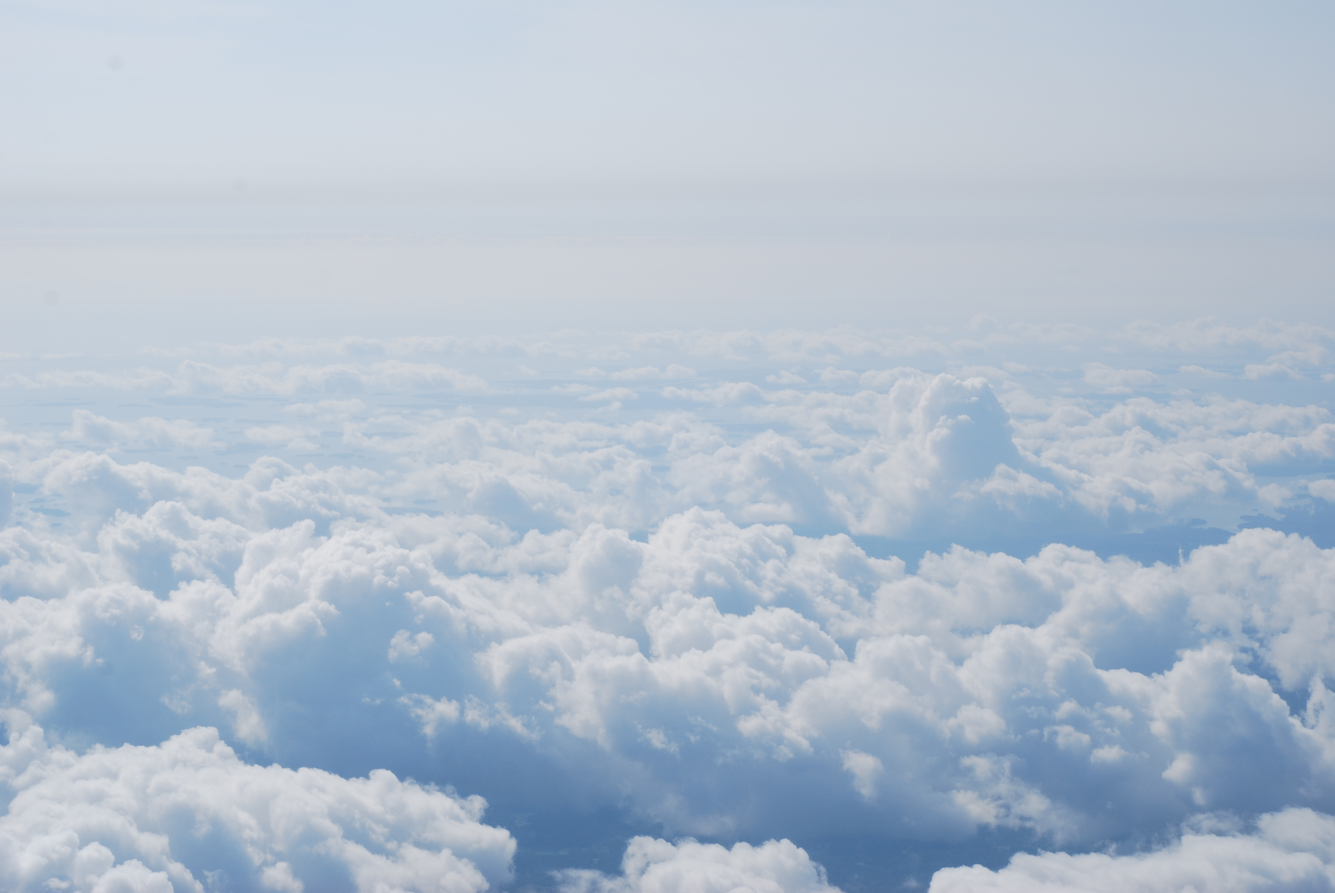
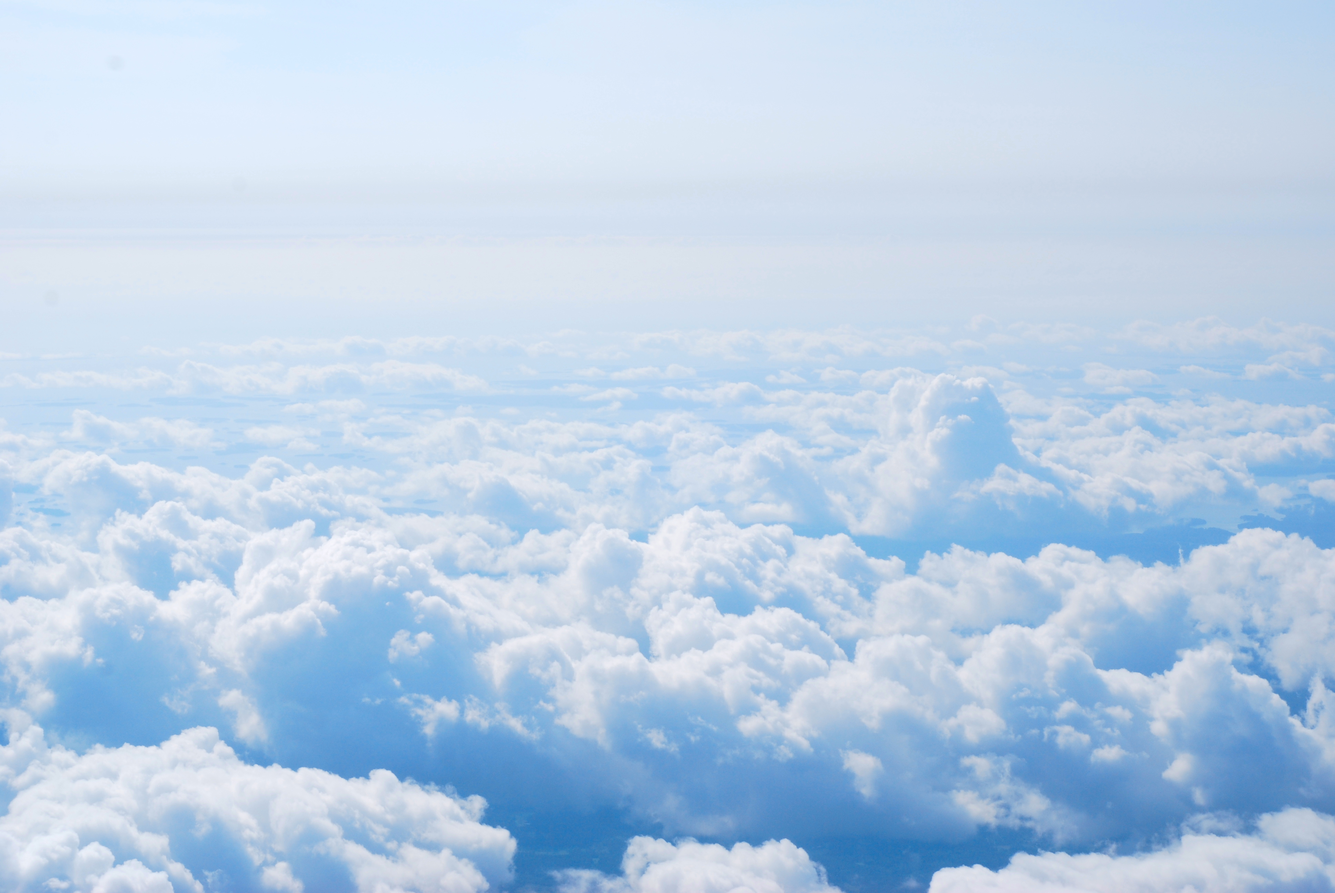
background changes

diff --git a/src/Work.js b/src/Work.js
@@ -23,56 +23,58 @@ class Portfolio extends Component {
 					<Container>
 			          <Row debug>
 			            <Col className="container" xs={6} md={3.6}>
-			            <center>
-			              <img className="image" src={require("./images/DH2642/DP.png")} alt="Image" width="200px" height="200px" />
-			                <div class="middle">
-			                	<Link to="/DH2642react">
-							    <div class="text">DH2642</div>
-							    </Link>
-							 </div>
-			            </center>
+				            <center>
+					            <Link to="/DH2642react">
+					              	<img className="image" src={require("./images/DH2642/DP.png")} alt="Image" width="200px" height="200px" />
+					                <div class="middle">
+									    <div class="text">DH2642</div>
+									</div>
+								</Link>
+				            </center>
 			            </Col>   
 
 			            <Col className="container" xs={6} md={3.6}>
-			            <center>
-			              <img className="image" src={require("./images/DM2350/DM.png")} alt="Image" width="200px" height="200px" />
-			                <div class="middle">
-			                	<Link to="/DM2350">
-							    <div class="text">DM2350</div>
-							    </Link>
-							 </div>
-						</center>
-			            </Col>
-			            <Col className="container" xs={6} md={3.6}>
-			            <center>
-			              <img className="image" src={require("./images/DH2642/vue.png")} alt="Image" width="200px" height="200px" />
-			                <div class="middle">
-			                	<Link to="/DH2642vue">
-							    <div class="text">DH2642</div>
-							    </Link>
-							 </div>
-			            </center>
-			            </Col>
-			          </Row><br/><br/>
-			          <Row debug>
-			            <Col className="container" xs={6} md={3.6}>
-			            <center>
-			              <img className="image" src={require("./images/DM2601/2601.png")} alt="Image" width="300px" height="300px" />
-			                <div class="middle">
-			                	<Link to="/DM2601">
-							    <div class="text">DM2601</div>
-							    </Link>
-							 </div>
-						</center>
+				            <center>
+					            <Link to="/DM2350">
+					              	<img className="image" src={require("./images/DM2350/DM.png")} alt="Image" width="200px" height="200px" />
+					              	<div class="middle">
+								    	<div class="text">DM2350</div>
+								 	</div>
+								</Link>
+							</center>
 			            </Col>
 
 			            <Col className="container" xs={6} md={3.6}>
-			            <center>
-			              placeholders for more projects
-			              </center>
+				            <center>
+					            <Link to="/DH2642vue">
+					              	<img className="image" src={require("./images/DH2642/vue.png")} alt="Image" width="200px" height="200px" />
+					                <div class="middle">
+					                	<div class="text">DH2642</div>   
+									 </div>
+								</Link>
+				            </center>
+			            </Col>
+			          </Row><br/><br/>
+
+			          <Row debug>
+			            <Col className="container" xs={6} md={3.6}>
+				            <center>
+				            	<Link to="/DM2601">
+				              		<img className="image" src={require("./images/DM2601/2601.png")} alt="Image" width="300px" height="300px" />
+				               		<div class="middle">
+								    	<div class="text">DM2601</div>
+								 	</div>
+								</Link>
+							</center>
+			            </Col>
+
+			            <Col className="container" xs={6} md={3.6}>
+			            	<center>
+			              		placeholders for more projects
+			              	</center>
 			            </Col>
 			            <Col className="container" xs={6} md={3.6}>
-			              placeholders for more projects
+			              	placeholders for more projects
 			            </Col>      
 			          </Row><br/><br/>
 			          <Row debug>

diff --git a/src/Work.css b/src/Work.css
@@ -57,12 +57,16 @@
 	position: absolute;
 	margin-left: 5%;
 	margin-right: 5%;
-	background-image: url(./images/cloud.JPG);
+	//background-color: #E1F7FE;
+	//background-image: url(./images/IMG_3560.JPG);
+	//background-image: url(./images/cloud2.JPG);
+	background-image: url(./images/DSC_0808.JPG);
 	background-size: cover;
 	height: 800px;
 	width: 90%;
 	z-index: -1;
-  	//filter: blur(3px);
+  	filter: blur(2px);
+  	opacity: 0.3;
 }
 
 .circle{

diff --git a/src/Footer.js b/src/Footer.js
@@ -30,13 +30,10 @@ class Footer extends Component {
 		    		<a href="mailto:annaeklu@kth.se">
 		    			<Mail className="footer-icon" />
 		    		</a>
-
 			    </center>
-			          		
-			        
-			    <br/><br/>
+			    <br/>
 				<div className="to-top" onClick={this.scrollToTop}>
-					<Scroll type="className" element="elements" offset={-100}>
+					<Scroll type="id" element="header" offset={0}>
 					</Scroll>
 				</div>
 

diff --git a/src/Startpage.js b/src/Startpage.js
@@ -13,7 +13,7 @@ class Startpage extends Component {
 		return (
 			<div>
 			<Header />
-			<div className="body"><br/>TBD</div>
+			<div className="body"></div>
 			<Footer />
 			</div>
 		);

diff --git a/src/Header.css b/src/Header.css
@@ -1,5 +1,5 @@
 #header{
-	margin-top: 15px;
+	margin-top: 20px;
 	background-color: white;
 	font-family: 'Didact Gothic';font-size: 22px;
 	opacity: 0.5;
